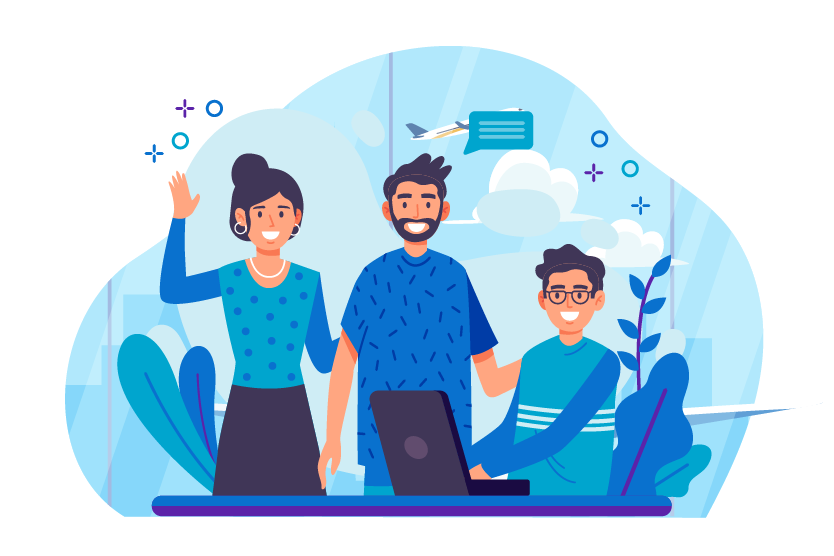
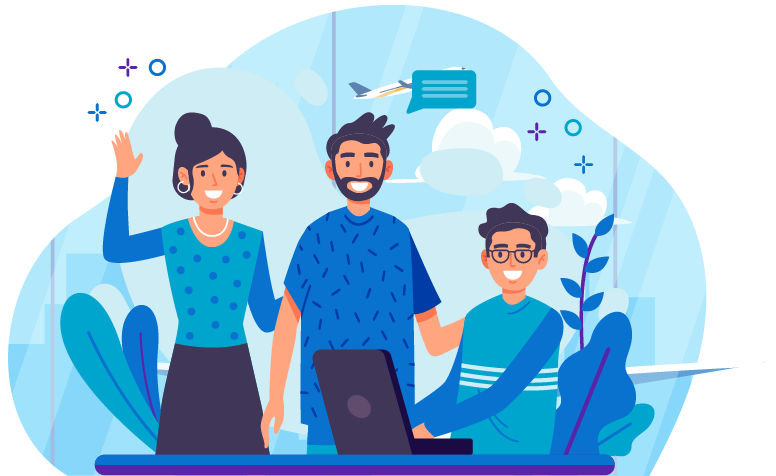
fix responsive in footer

diff --git a/src/components/Footer.jsx b/src/components/Footer.jsx
@@ -4,41 +4,53 @@ import Team from '../assets/img/Equipo_Trabajo.png';
 
 export const FooterWithLogo = () => {
   return (
-    <footer className="relative min-w-[100vw] bg-white min-h-full border-t border-t-purple-500">
+    <footer className="relative min-w-[100vw] bg-purple-600" style={{
+      clipPath: "inset(-300px 0 0 0)", // Recorta solo la parte inferior
+    }}>
+      {/* Contenedor principal */}
+      <div 
+        className="relative"
+        style={{
+          clipPath: "polygon(0 -300%, 100% -300%, 100% 100%, 0 100%)"
+        }}
+      >
+        {/* Imagen superpuesta */}
+        <div className="absolute w-full">
+          <img
+            src={Team}
+            alt="Equipo de trabajo"
+            className="absolute right-0 -top-24 md:-top-32 lg:-top-40 w-[60%] sm:w-[50%] md:w-[40%] lg:w-[35%] max-w-[600px]"
+          />
+        </div>
 
-      {/* Imagen superpuesta */}
-      <div className="relative w-full overflow-visible">
-        <img
-          src={Team}
-          alt="Equipo de trabajo"
-          className="absolute right-0 -top-24 md:-top-32 lg:-top-40 w-[60%] sm:w-[50%] md:w-[40%] lg:w-[35%] max-w-[600px]"
-        />
-      </div>
-      <div className="flex flex-col lg:flex-row items-start lg:items-center justify-between p-8 text-textDark z-10 relative gap-8 lg:gap-0">
-        {/* Logo e información */}
-        <div className="flex items-start gap-4 lg:gap-6">
-          <img src={Logo} alt="Spa logo" className="w-16 md:w-20 lg:w-28" />
-          <div>
-            <Typography className="text-lg font-medium mb-2">Horarios de atención</Typography>
-            <ul className="text-sm leading-6">
-              <li>Lunes a Viernes: 8:00 AM - 8:00 PM</li>
-              <li>Sábado: 9:00 AM - 6:00 PM</li>
-              <li>Domingo: Cerrado</li>
-            </ul>
+        <div className="flex flex-col lg:flex-row items-start lg:items-center justify-between p-8 text-white z-10 relative gap-8 lg:gap-0">
+          {/* Logo e información */}
+          <div className="flex items-start gap-4 lg:gap-6">
+            <img src={Logo} alt="Spa logo" className="w-16 md:w-20 lg:w-28" />
+            <div>
+              <Typography className="text-lg font-medium mb-2">Horarios de atención</Typography>
+              <ul className="text-sm leading-6">
+                <li>Lunes a Viernes: 8:00 AM - 8:00 PM</li>
+                <li>Sábado: 9:00 AM - 6:00 PM</li>
+                <li>Domingo: Cerrado</li>
+              </ul>
+            </div>
           </div>
-        </div>
-        {/* Texto del medio */}
-        <div className="flex flex-col items-center text-center w-full md:w-auto">
-          <Typography className="text-xl md:text-2xl font-bold">
-            Spa Salud y Vida
-          </Typography>
-        </div>
+          
+          {/* Texto del medio */}
+          <div className="flex flex-col items-center text-center w-full md:w-auto">
+            <Typography className="text-xl md:text-2xl font-bold">
+              Spa Salud y Vida
+            </Typography>
+          </div>
 
-        {/* Espacio para imagen */}
-        <div className="hidden lg:block w-72"></div>
+          {/* Espacio para imagen */}
+          <div className="hidden lg:block w-72"></div>
+        </div>
       </div>
+
       {/* Barra inferior del footer */}
-      <div className="bg-white text-textDark text-center py-2">
+      <div className="bg-purple-700 text-white text-center py-2">
         <Typography className="text-sm">&copy; 2024 Spa Holístico</Typography>
       </div>
     </footer>

diff --git a/src/pages/Home.jsx b/src/pages/Home.jsx
@@ -182,9 +182,10 @@ export const Home = () => {
         </section>
       </main>
       {/* Footer siempre al final */}
-      <footer className="relative top-[30vh] md:top-0">
+      <footer className="relative top-[22vh] md:top-0 footer-top-22vh footer-top-75vh">
         <FooterWithLogo />
       </footer>
+
 
 
       <FloatButtons />

diff --git a/src/index.css b/src/index.css
@@ -200,4 +200,15 @@ html, body {
   animation: fly 10s linear infinite;
 }
 
+/* responsive de top en footer */
+@media (max-height: 667px) {
+  .footer-top-75vh {
+    top: 75vh !important;
+  }
+}
 
+@media (min-height: 668px) and (max-height: 915px) {
+  .footer-top-22vh {
+    top: 45vh !important;
+  }
+}
